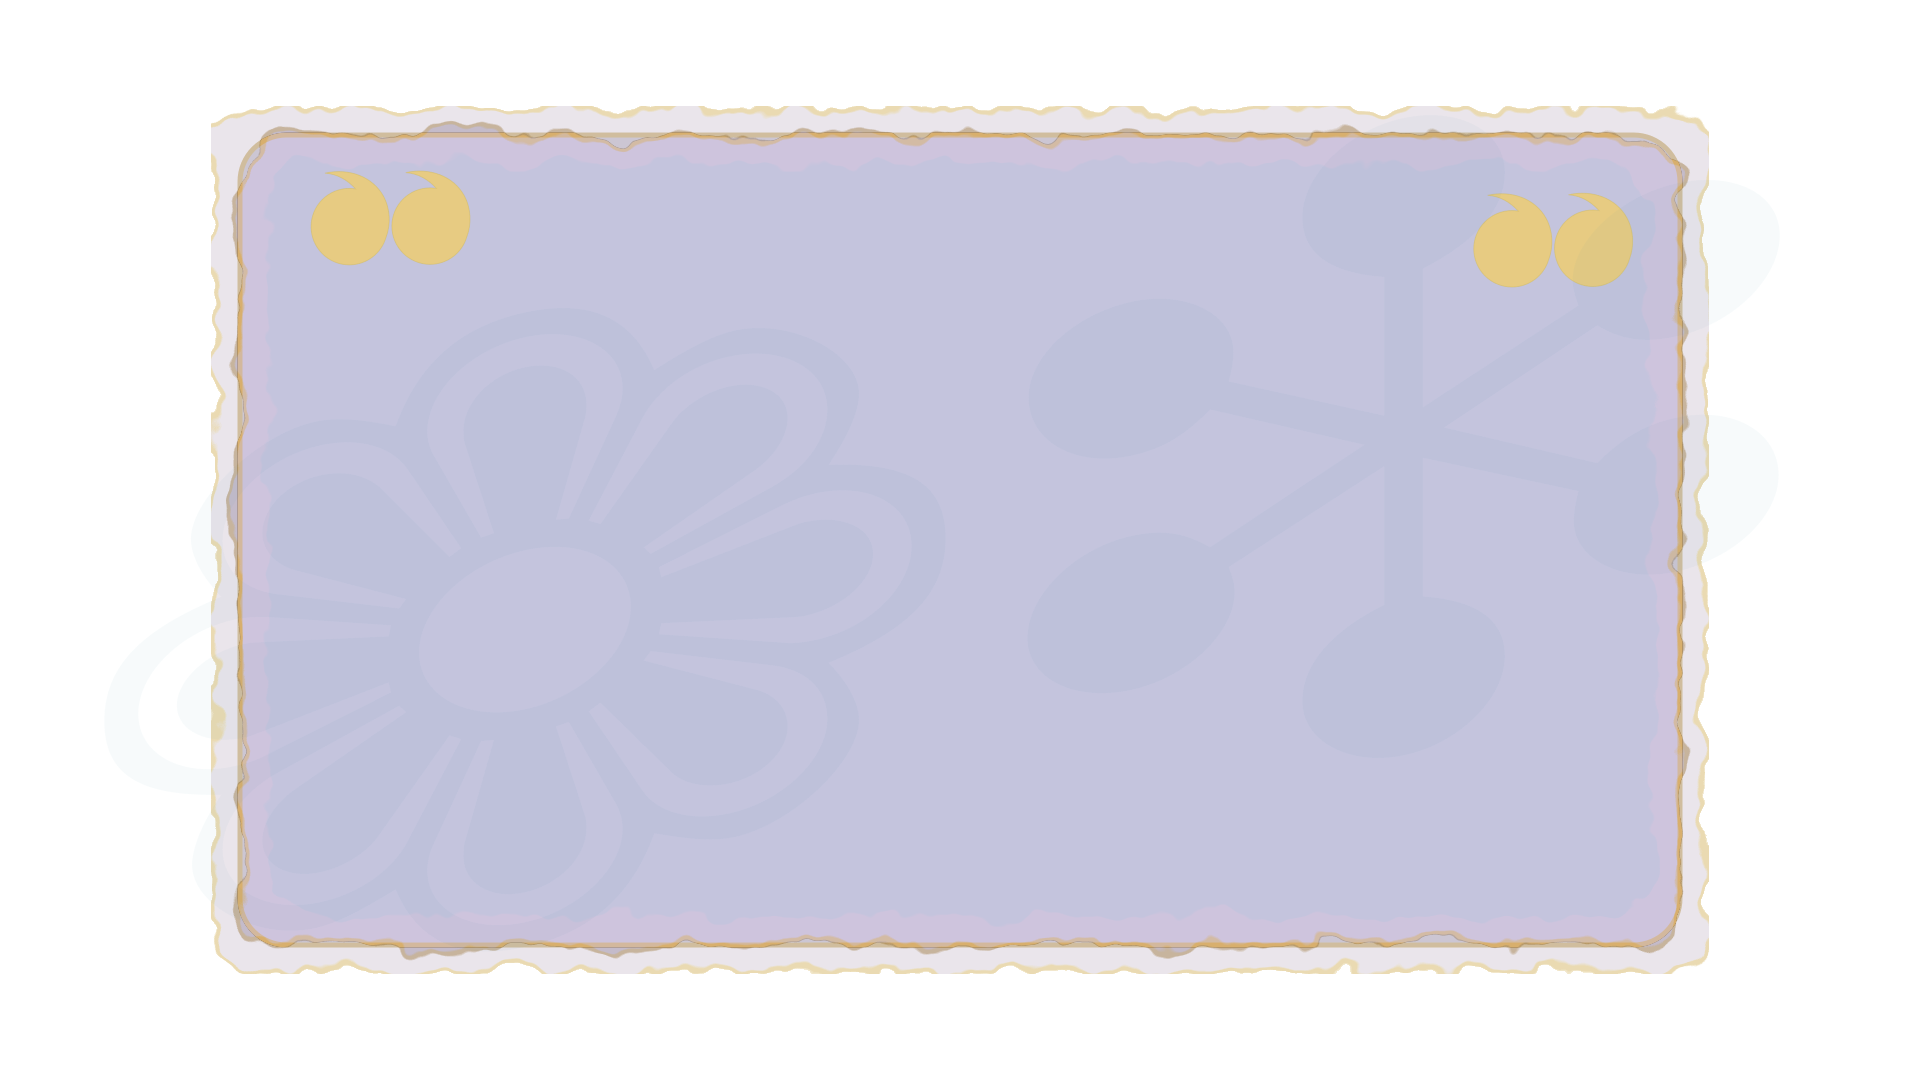
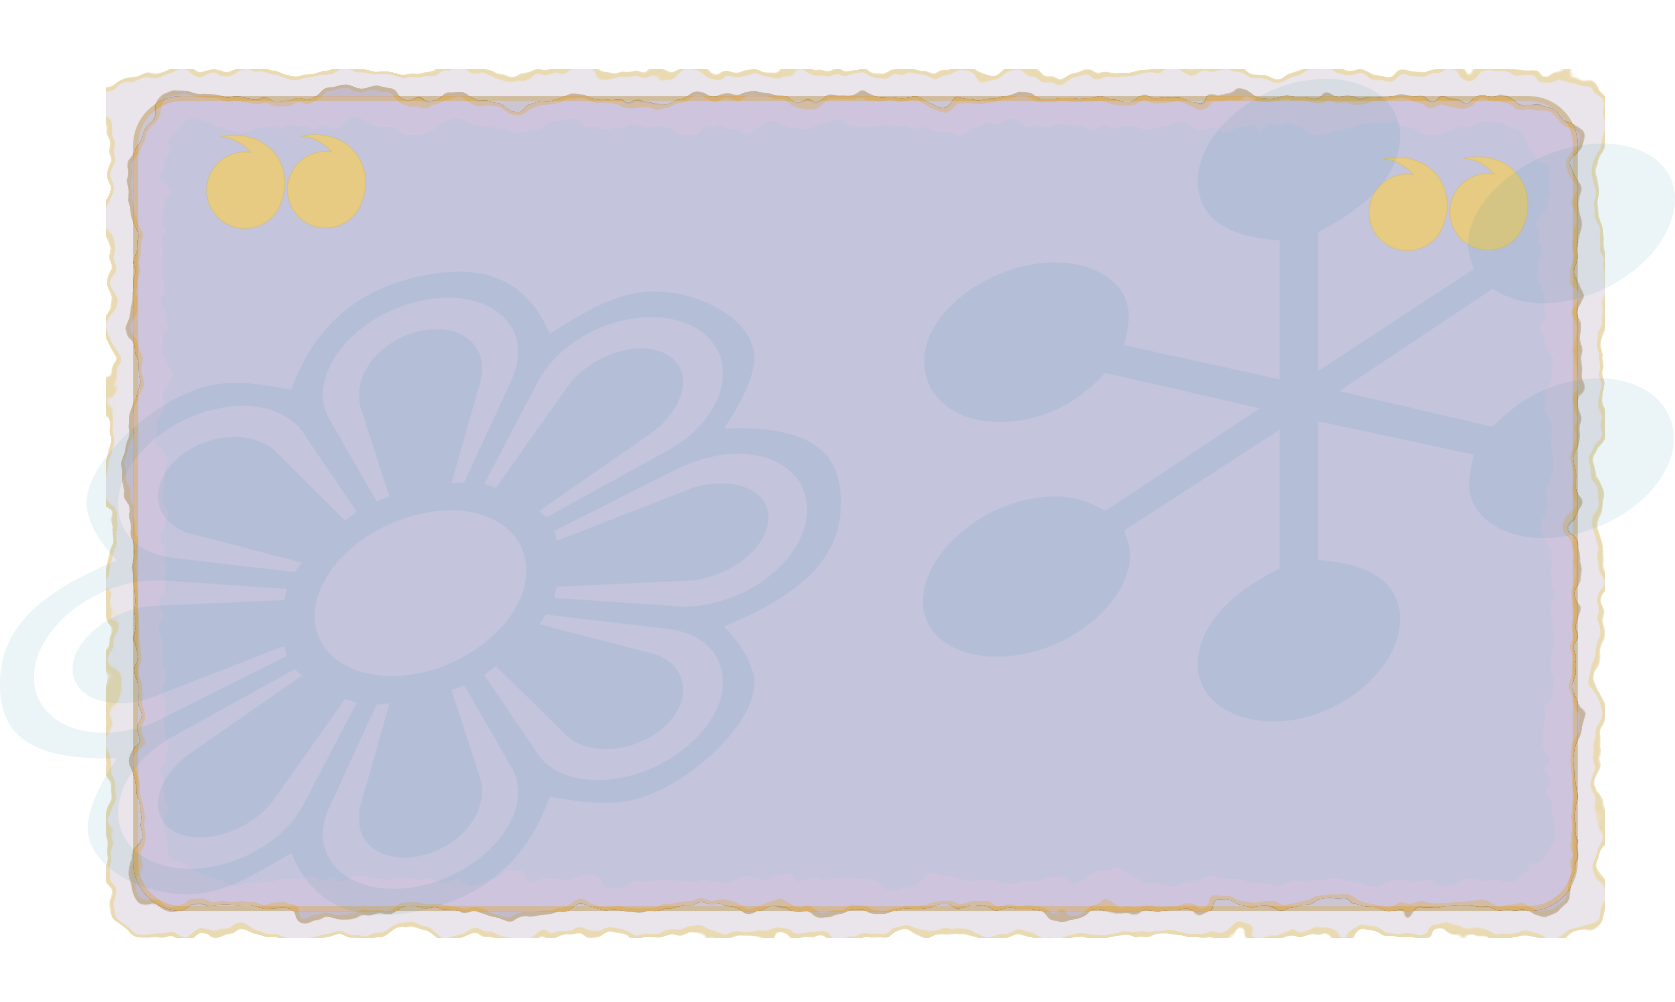
iki yen msg bg eklendi

Changed region(s): [[0.0621, 0.0619, 0.9624, 0.9591]]

diff --git a/make_wallpeaper_image.js b/make_wallpeaper_image.js
@@ -37,7 +37,7 @@ async function mesajKutusunuOlustusu(scrn_width, scrn_height, mesaj_json,okul_tu
     const msg_canvas = createCanvas(kutu_width, kutu_height)
     const ctx = msg_canvas.getContext('2d')
     GlobalFonts.registerFromPath(path.join(__dirname,'assets/Alkatra-VariableFont_wght.ttf'), 'Alkatra')
-    let msg_bg_name = "msg_bg" + Math.floor(Math.random()*2)
+    let msg_bg_name = "msg_bg" + Math.floor(Math.random()*5)
     let image_path = path.join(__dirname, '/assets/'+msg_bg_name+'.png')
     const background = await loadImage(image_path);
     ctx.drawImage(background, 0, 0, msg_canvas.width, msg_canvas.height);
